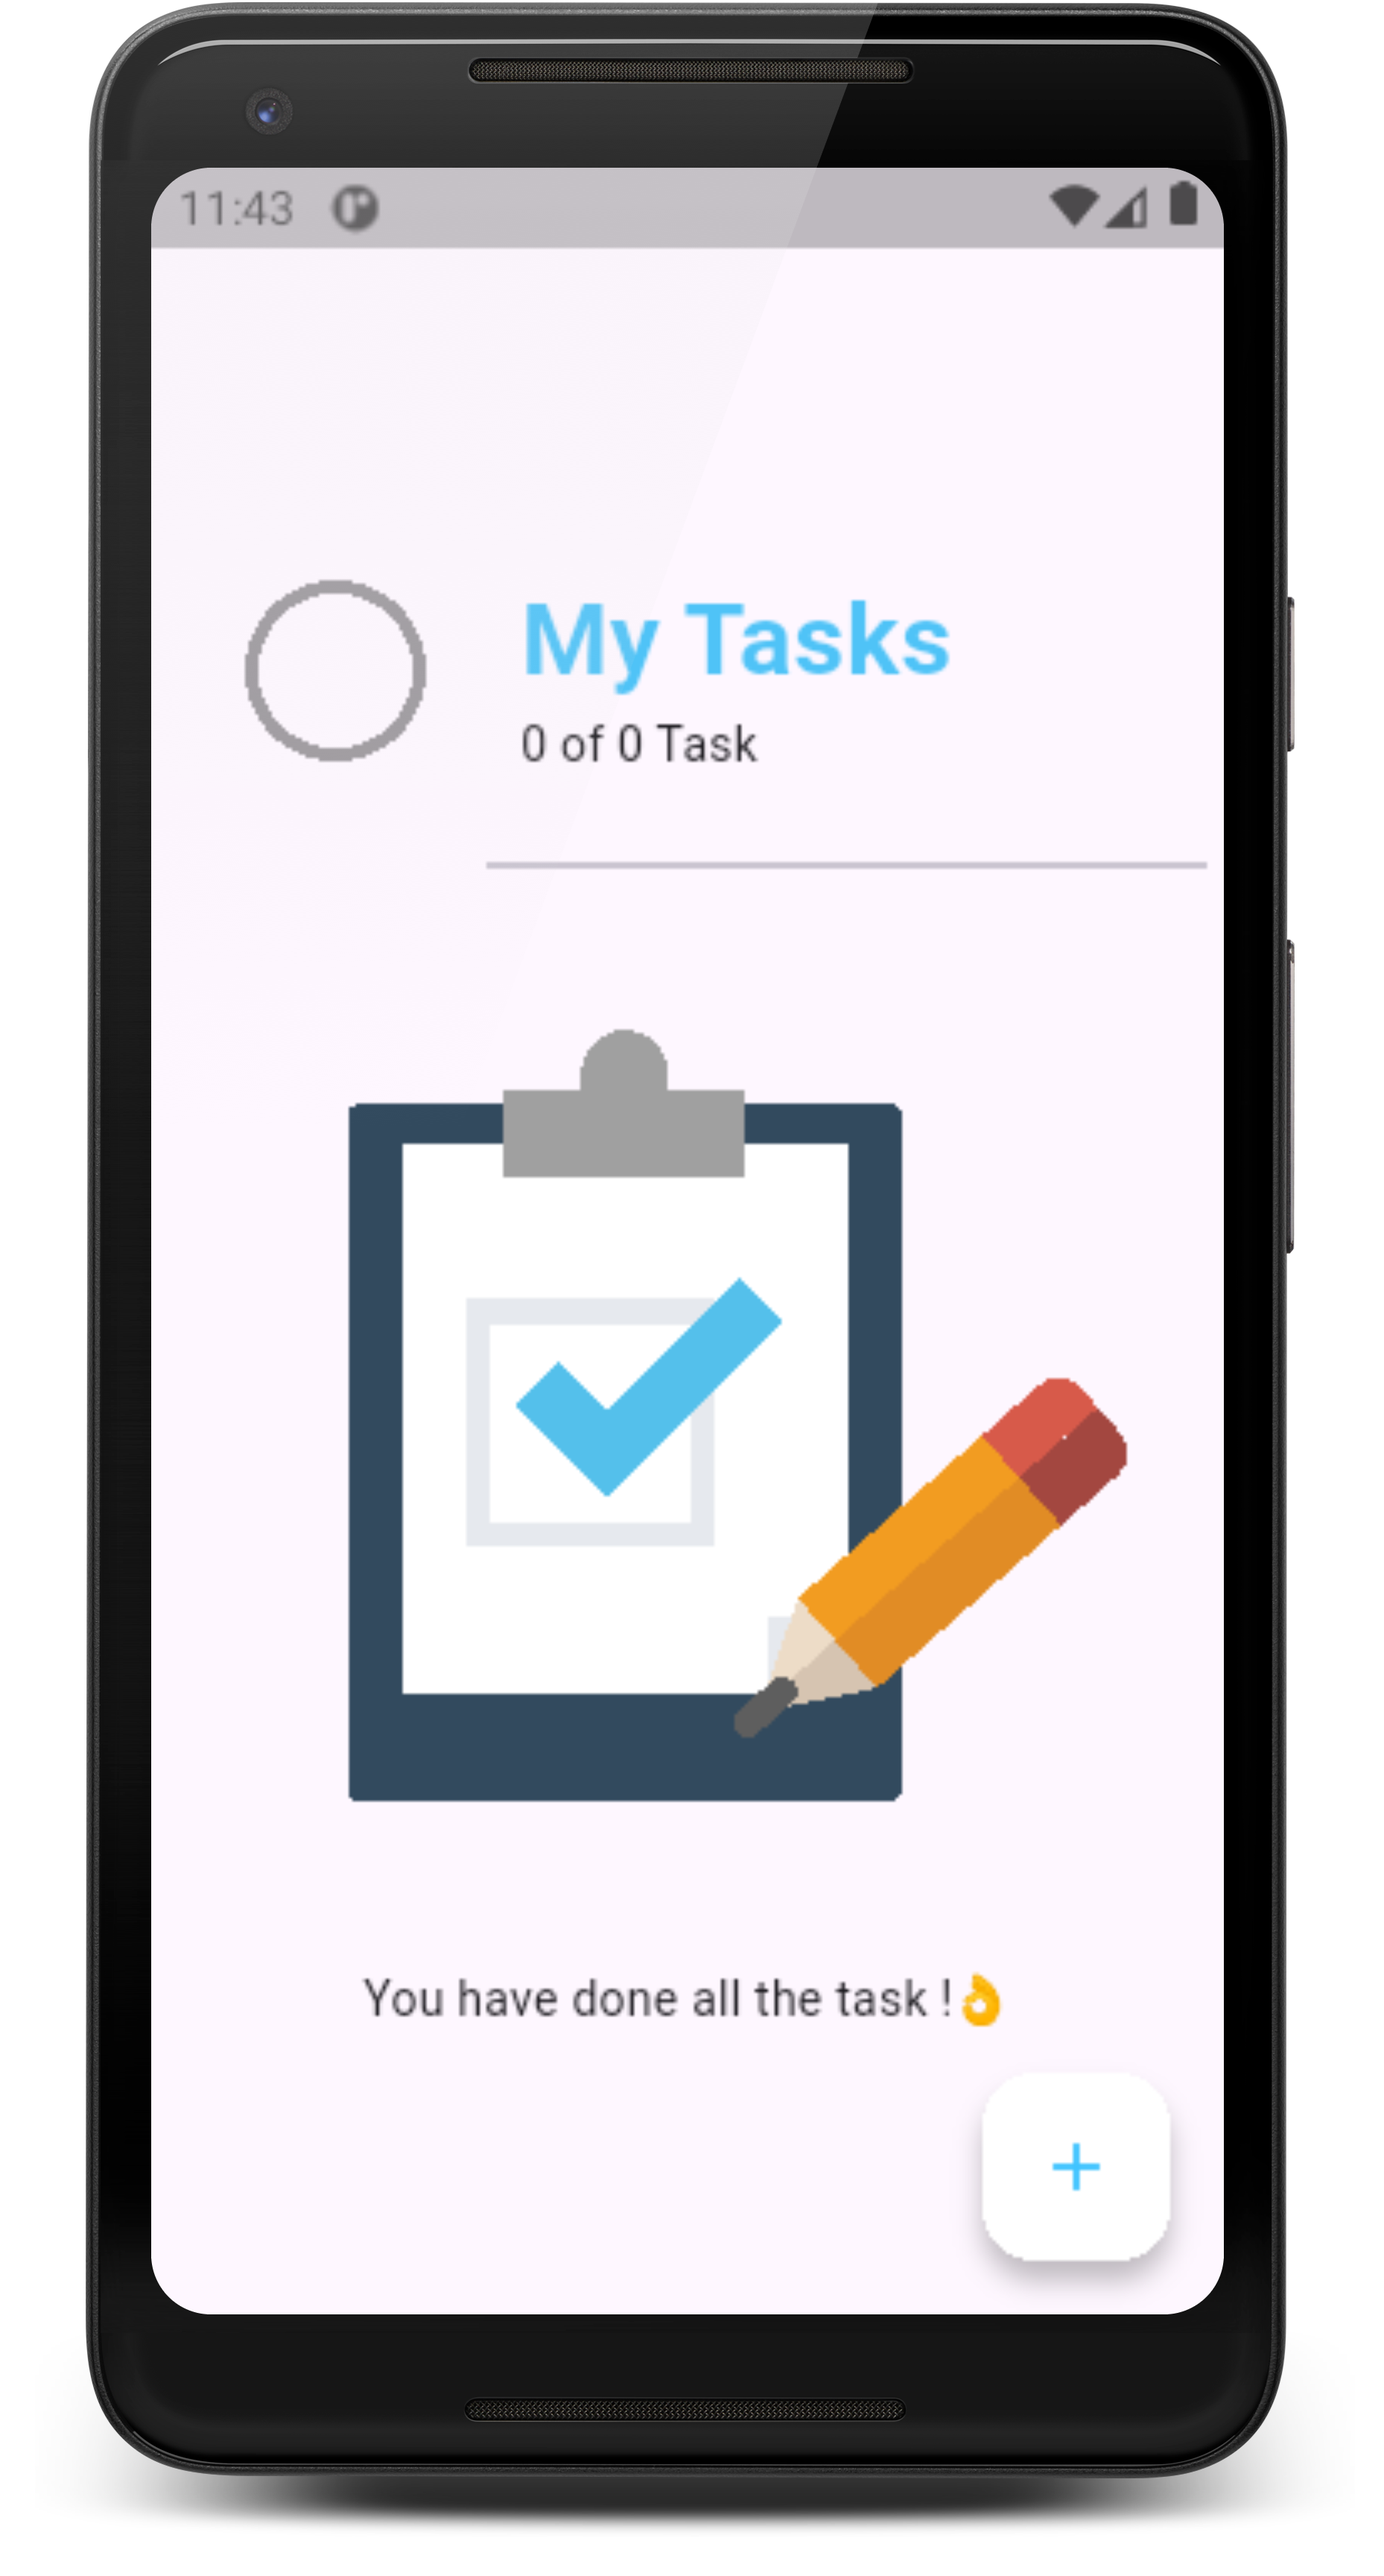
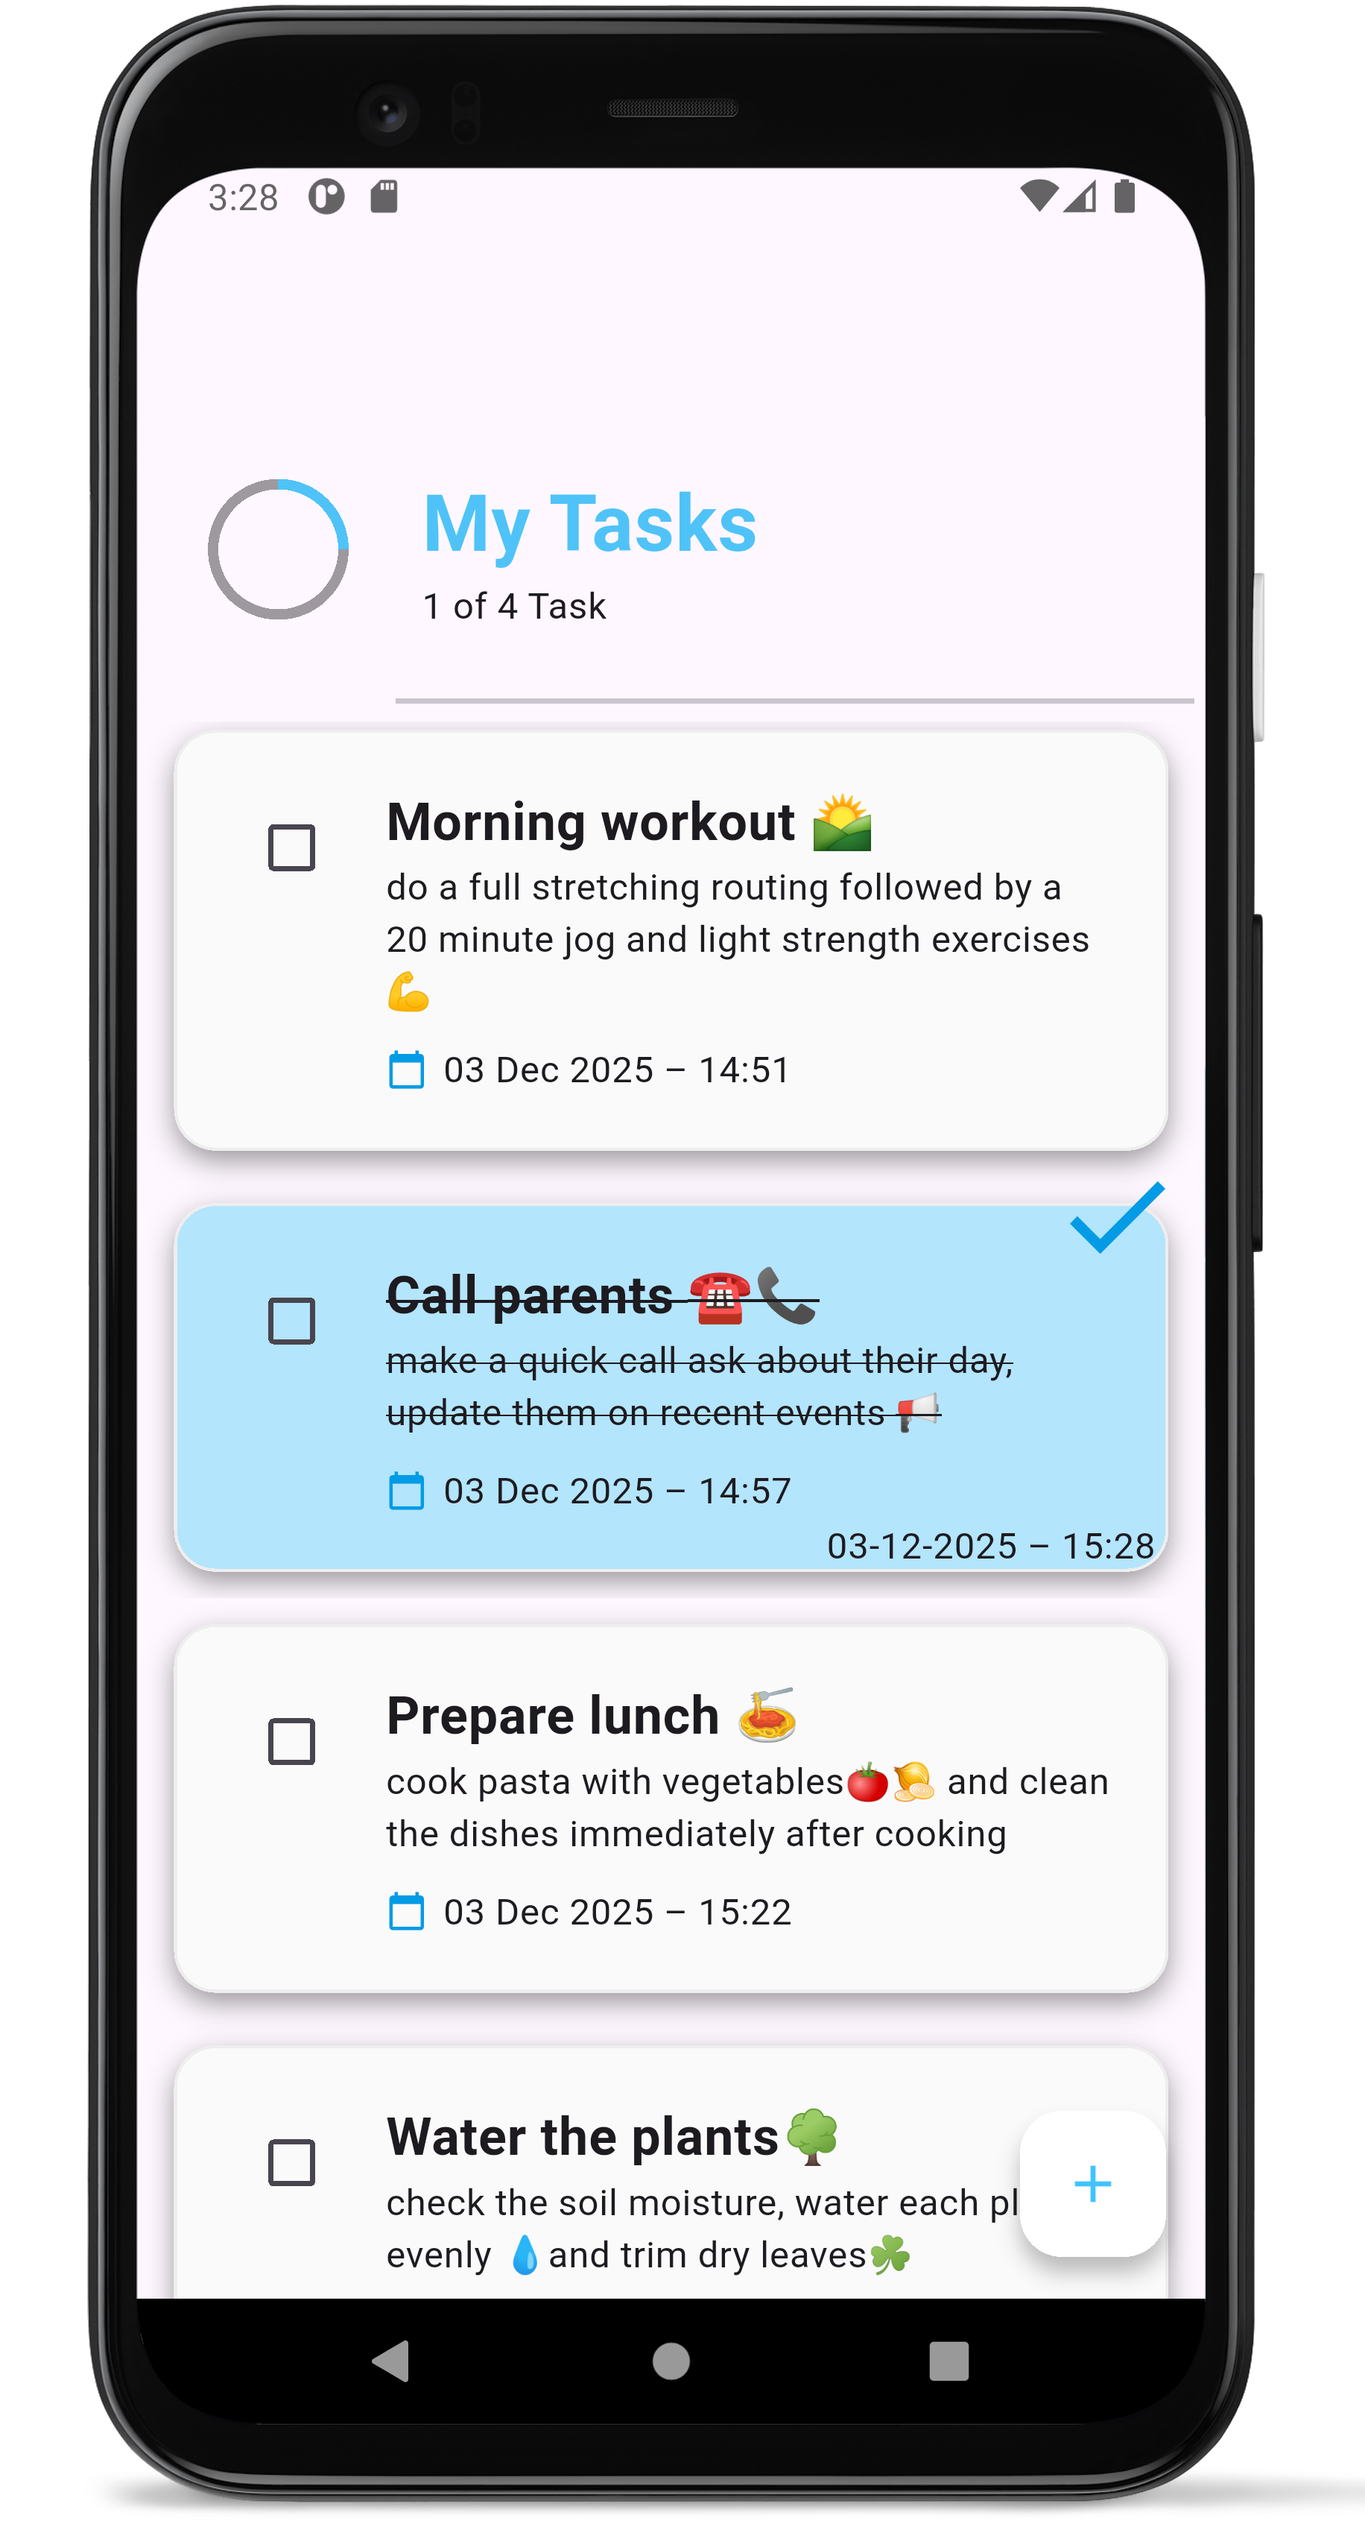
update readMe file and upload screen shots

diff --git a/README.md b/README.md
@@ -18,8 +18,10 @@ A modern and clean Flutter To-Do List Application that helps users organize task
 ## ✨Some ScreenShots
 
 <p align="center">
-  <img src="assets/screenshots/Screenshot_1.png" width="200" style="margin: 5px;" alt="01">
-  <img src="assets/screenshots/Screenshot_2.png" width="200" style="margin: 5px;" alt="02">
-  <img src="assets/screenshots/Screenshot_1.png" width="200" style="margin: 5px;" alt="03">
-  <img src="assets/screenshots/Screenshot_2.png" width="200" style="margin: 5px;" alt="03">
+  <img src="assets/screenshots/Screenshot_1.png" width="250" style="margin: 5px;" alt="01">
+  <img src="assets/screenshots/Screenshot_2.png" width="250" style="margin: 5px;" alt="02">
+  <img src="assets/screenshots/Screenshot_3.png" width="250" style="margin: 5px;" alt="03">
+</p>
+<p align="center">
+  <img src="assets/screenshots/Screenshot_4.png" width="250" style="margin: 5px;" alt="01">
 </p>
